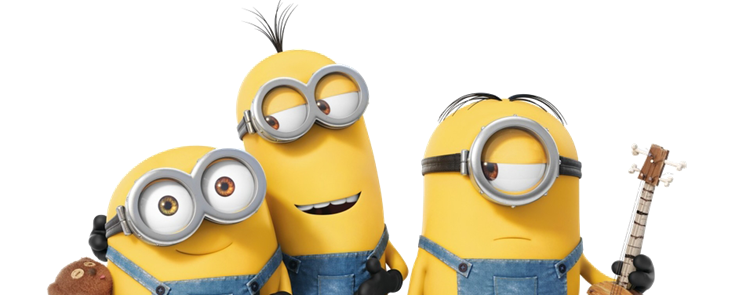
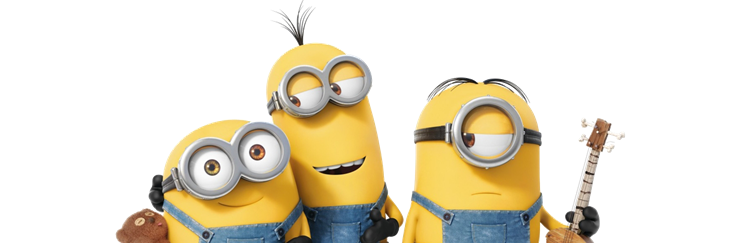
update style

diff --git a/source/css/style.css b/source/css/style.css
@@ -235,7 +235,7 @@ pre {
   /* opacity: .85;*/
 }
 .carousel img {
-  margin-top:  -122px;
+  margin-top:  -72px;
   width: 100%;
 }
 .carousel .letter {
@@ -1047,7 +1047,7 @@ pre {
     float: none;
   }
   .carousel img {
-    margin-top:  -58px;
+    margin-top:  -38px;
   }
 }
 @media(max-width: 672px) {
